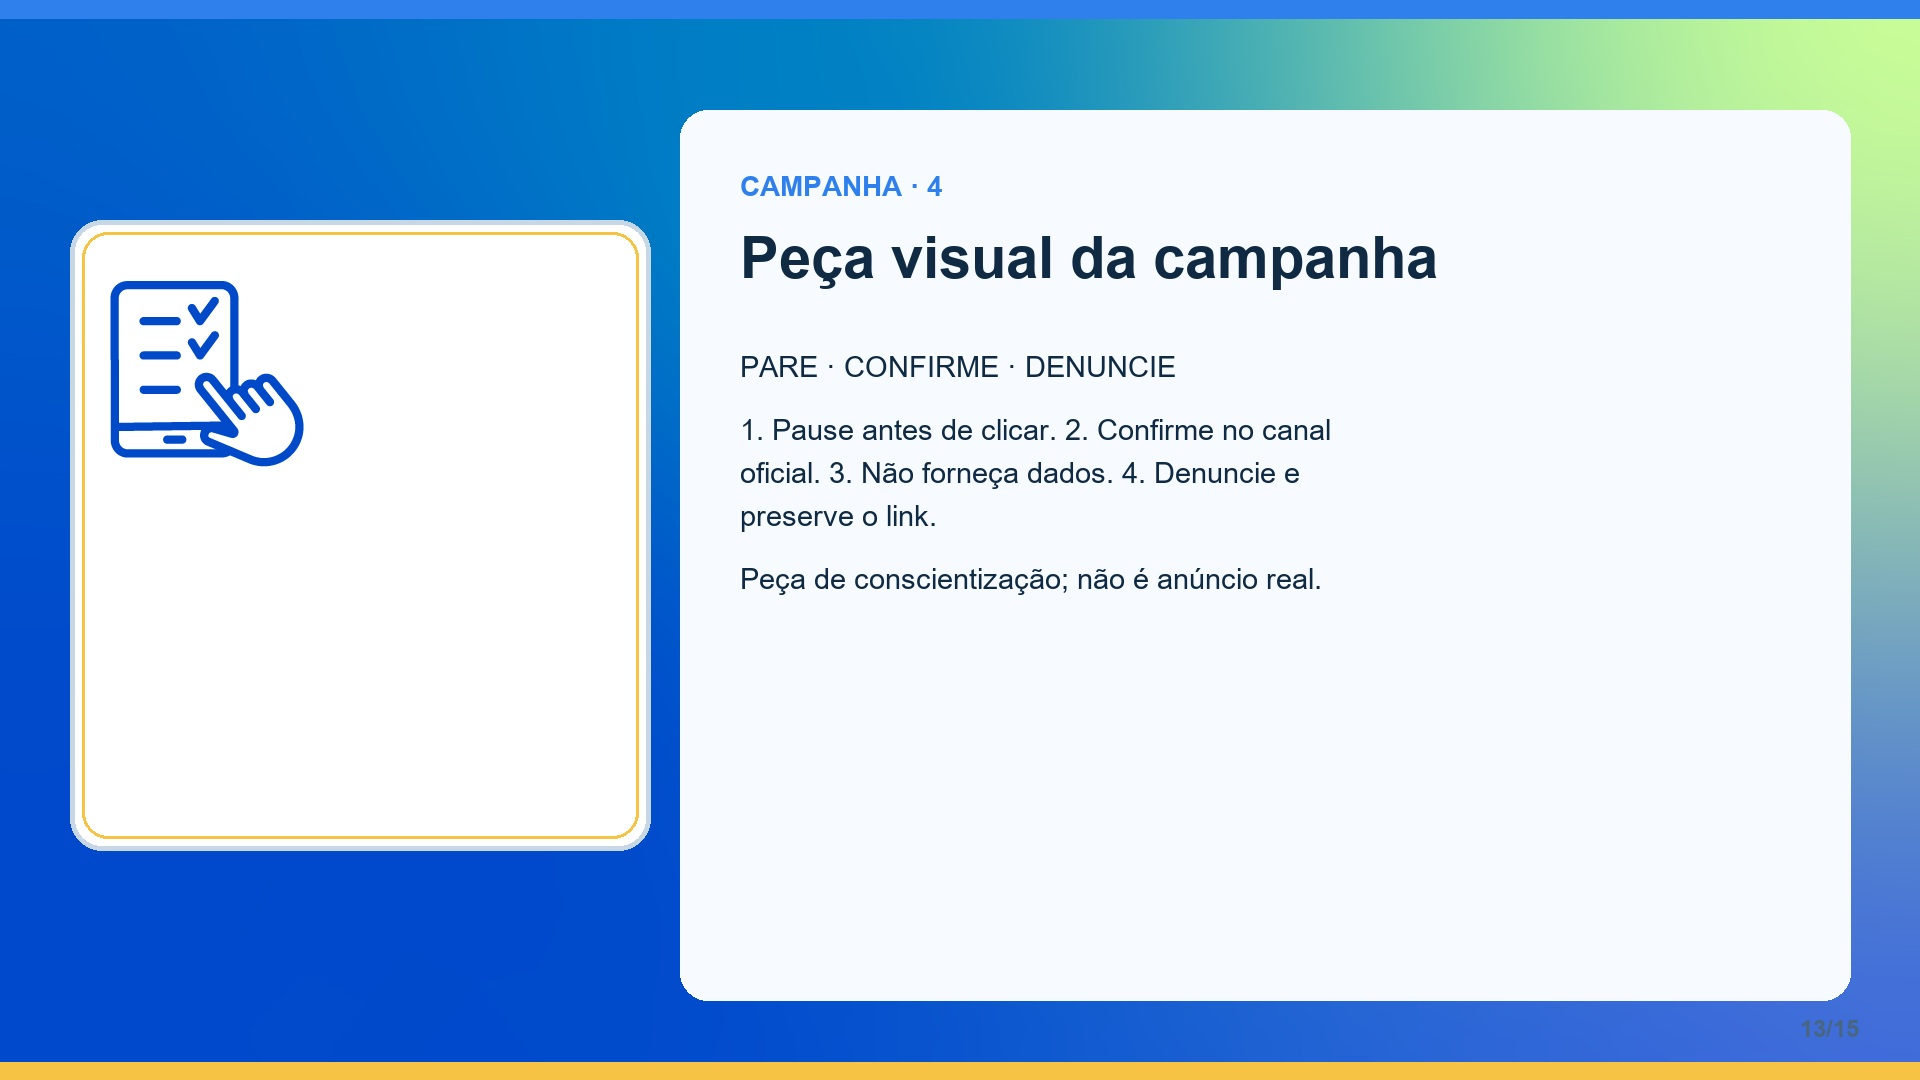
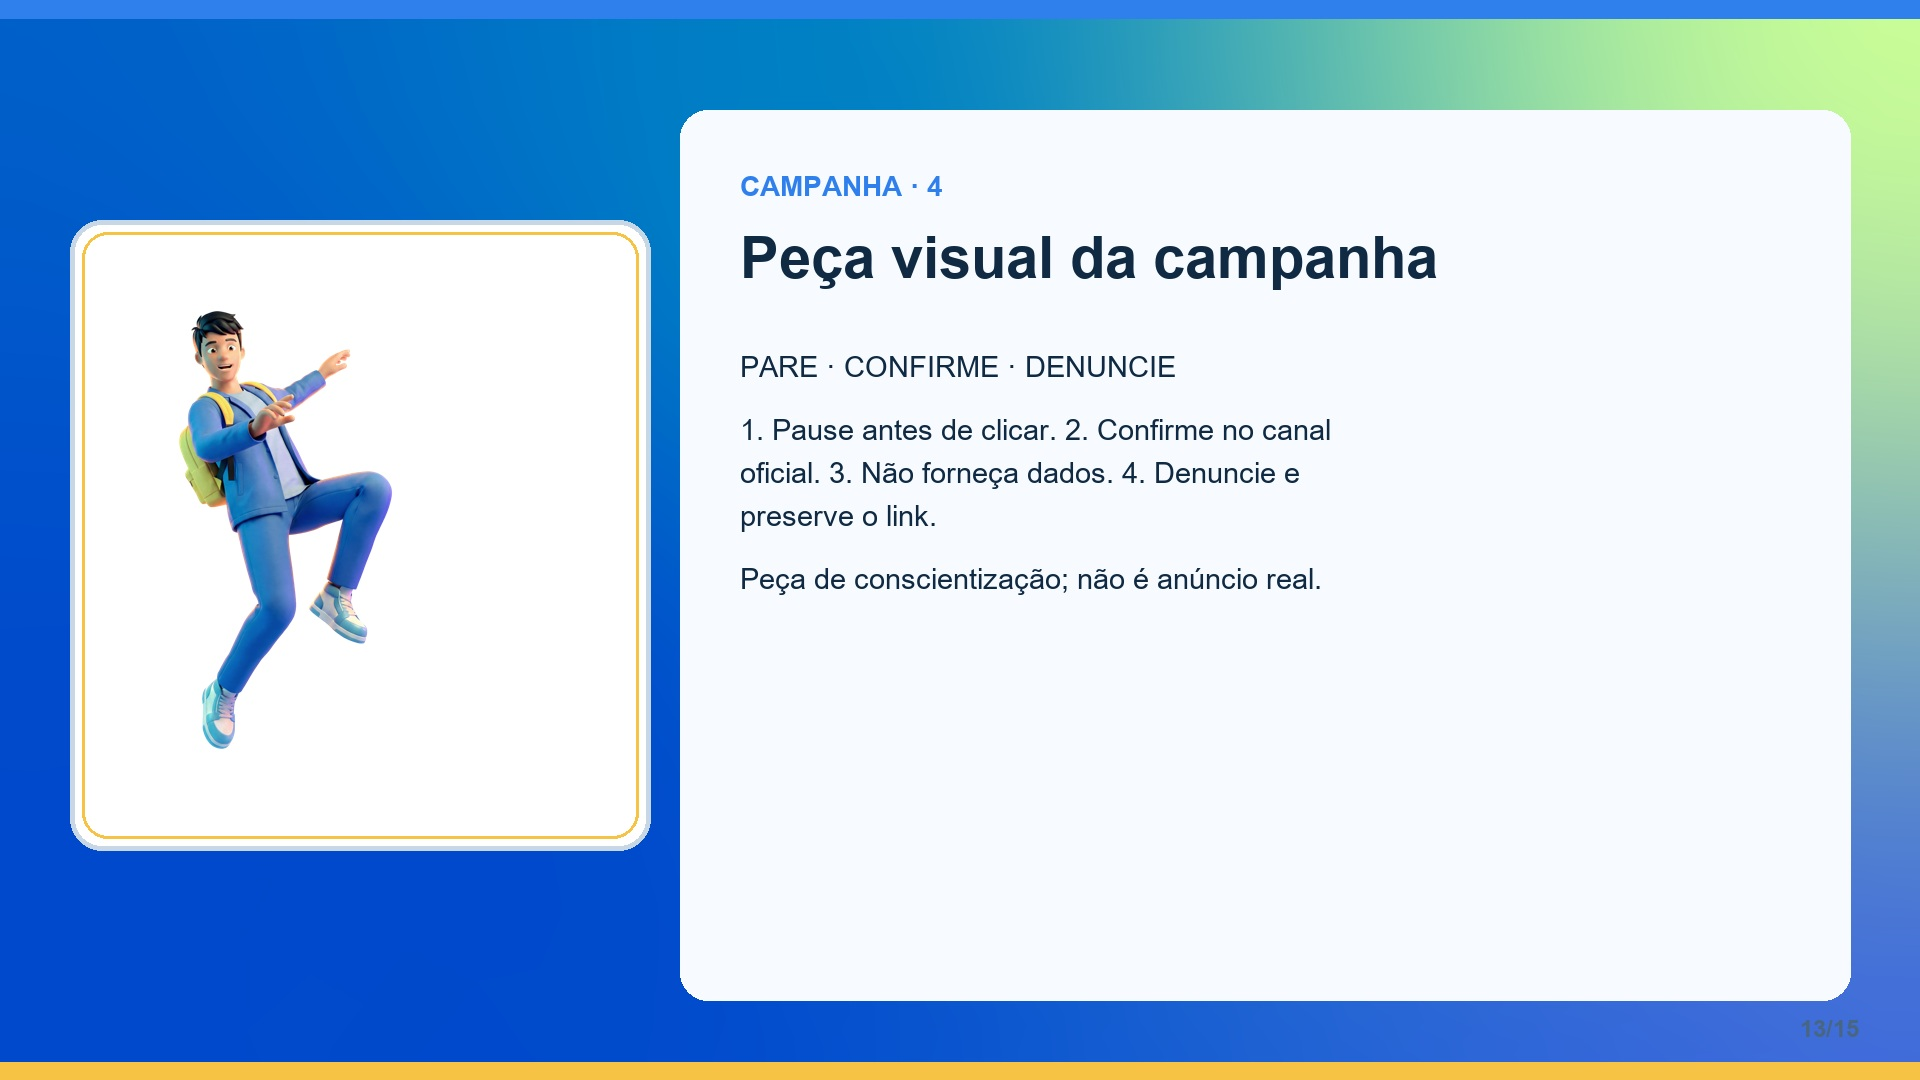
feat: priorizar personagens nos visuais dos slides

Changed region(s): [[0.0312, 0.2444, 0.2188, 0.7028]]

diff --git a/scripts/generate_n3_jpgs.py b/scripts/generate_n3_jpgs.py
@@ -5,7 +5,7 @@ R=Path(__file__).parents[1]; O=R/'slides'; A=R/'assets'; O.mkdir(exist_ok=True)
 F='/Windows/Fonts/arial.ttf'; B='/Windows/Fonts/arialbd.ttf'; font=lambda n,b=False:ImageFont.truetype(B if b else F,n)
 S=[
 ('CAPA','Deepfake em publicidade',['Maratona Tech 2026 · Nível 3','Caso brasileiro: uso não autorizado de imagem e voz sintética atribuído a Marcos Palmeira.'],'template-capa-002.png'),
-('PROBLEMA DIGITAL','Qual é o problema?',['Publicidade digital pode simular o endosso de uma pessoa real usando IA.','O caso circulou no Instagram e promovia um kit de ferramentas.','Relevância: imagem, voz, confiança e possível pagamento são envolvidos.'],'template-icones-ilustracoes-106.png'),
+('PROBLEMA DIGITAL','Qual é o problema?',['Publicidade digital pode simular o endosso de uma pessoa real usando IA.','O caso circulou no Instagram e promovia um kit de ferramentas.','Relevância: imagem, voz, confiança e possível pagamento são envolvidos.'],'template-icones-ilustracoes-029.png'),
 ('ARTEFATO DIGITAL','O conteúdo analisado',['Reconstituição esquemática baseada na reportagem: vídeo com imagem prévia do ator + voz sintética + oferta comercial.','A reportagem da CNN Brasil é a evidência disponível; o arquivo original do anúncio não foi recuperado.','Não é possível afirmar hash, metadados, autoria ou perícia quadro a quadro.'],'visual-deepfake-cc-by-sa-2.0.jpg'),
 ('PERFIL PROFISSIONAL','Quem pode ajudar?',['Jornalista de verificação e pesquisador de segurança digital: localizam a origem, comparam fontes, preservam evidências e explicam limites.','A atuação combina comunicação, pensamento computacional, proteção de dados e responsabilidade pública.'],'template-icones-ilustracoes-007.png'),
 ('RELATÓRIO TÉCNICO · 1','Descrição do problema digital',['O ator afirmou à CNN Brasil que sua imagem foi usada sem autorização em um golpe publicitário com IA.','Onde: perfil no Instagram. Quem foi impactado primeiro: o titular da imagem e usuários expostos ao anúncio.','Fonte: CNN Brasil, 08 jun. 2024.'],'template-icones-ilustracoes-018.png'),
@@ -16,7 +16,7 @@ S=[
 ('CAMPANHA · 1','Público e linguagem',['Público: estudantes, famílias e comunidade escolar.','Linguagem: direta, não sensacionalista, visual e acessível.','Mensagem central: rosto conhecido não é prova de autorização.'],'template-icones-ilustracoes-100.png'),
 ('CAMPANHA · 2','Explicação técnica simplificada',['Deepfake é conteúdo audiovisual alterado ou criado com IA para parecer que uma pessoa disse ou fez algo.','No caso, a aparência de fala foi associada a uma oferta comercial que o ator declarou não ter autorizado.'],'visual-deepfake-cc-by-sa-2.0.jpg'),
 ('CAMPANHA · 3','Impactos destacados',['Fraude econômica, coleta indevida de dados, desinformação e perda de confiança.','A campanha orienta sem culpar vítimas e sem expor dados pessoais.'],'template-icones-ilustracoes-106.png'),
-('CAMPANHA · 4','Peça visual da campanha',['PARE · CONFIRME · DENUNCIE','1. Pause antes de clicar. 2. Confirme no canal oficial. 3. Não forneça dados. 4. Denuncie e preserve o link.','Peça de conscientização; não é anúncio real.'],'template-icones-ilustracoes-040.png'),
+('CAMPANHA · 4','Peça visual da campanha',['PARE · CONFIRME · DENUNCIE','1. Pause antes de clicar. 2. Confirme no canal oficial. 3. Não forneça dados. 4. Denuncie e preserve o link.','Peça de conscientização; não é anúncio real.'],'template-icones-ilustracoes-007.png'),
 ('CONCLUSÃO','Aprendizados principais',['Fato, evidência, inferência e hipótese precisam ser separados.','Imagem e voz podem ser reutilizadas para fabricar autoridade.','A resposta mais segura é confirmação independente antes de compartilhar ou pagar.'],'template-capa-002.png'),
 ('REFERÊNCIAS','Fontes utilizadas',['CNN BRASIL (2024). Marcos Palmeira: rosto do ator é usado com IA em golpe no Instagram.','MIRSKY; LEE (2021). The creation and detection of deepfakes. ACM Computing Surveys.','VACCARI; CHADWICK (2020). Deepfakes and disinformation. Social Media + Society.','BRASIL (2018). Lei Geral de Proteção de Dados. ANPD (2023). Guia orientativo. NIST (2023). AI Risk Management Framework.'],'template-icones-ilustracoes-107.png')]
 def diagram(d, i):
